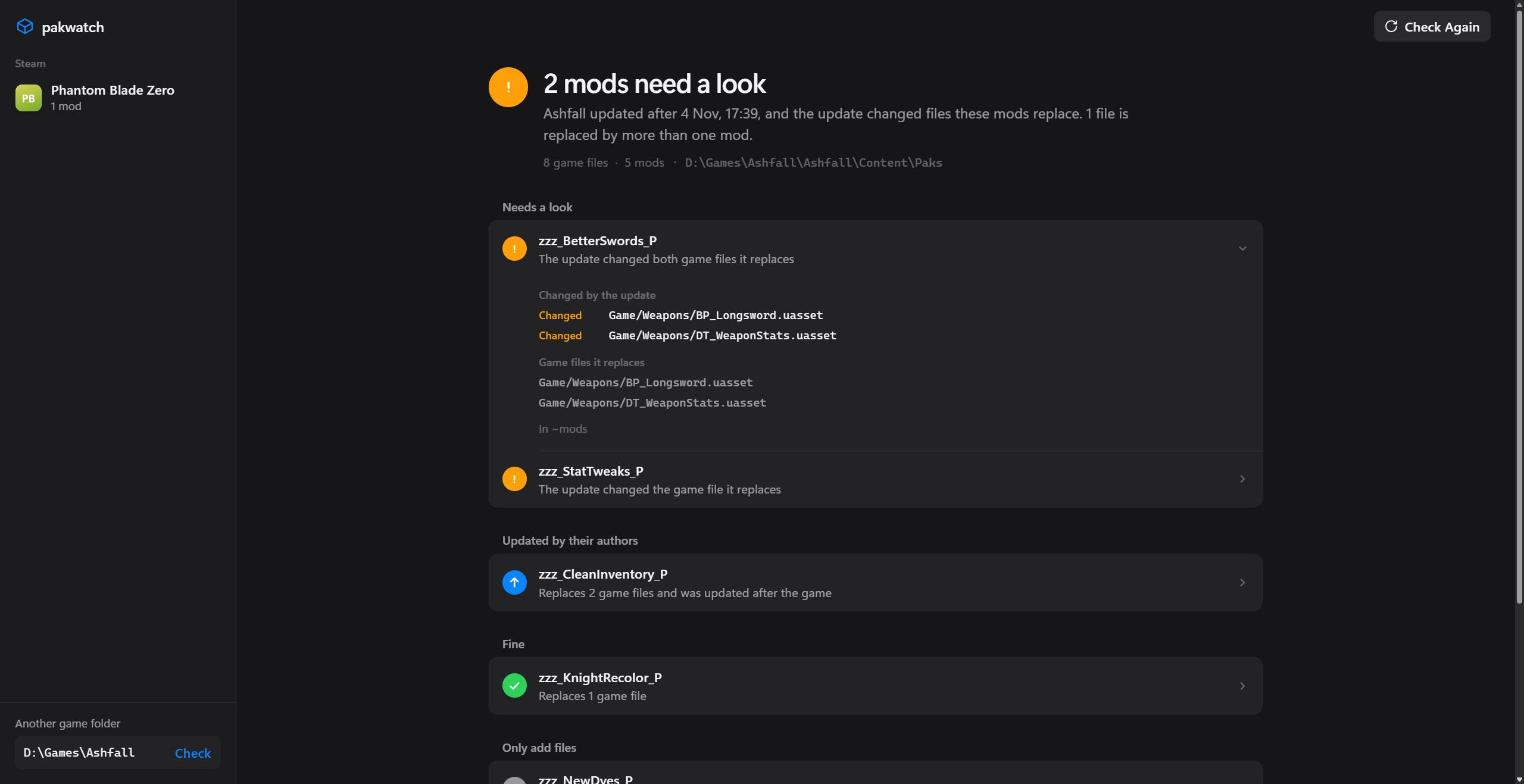
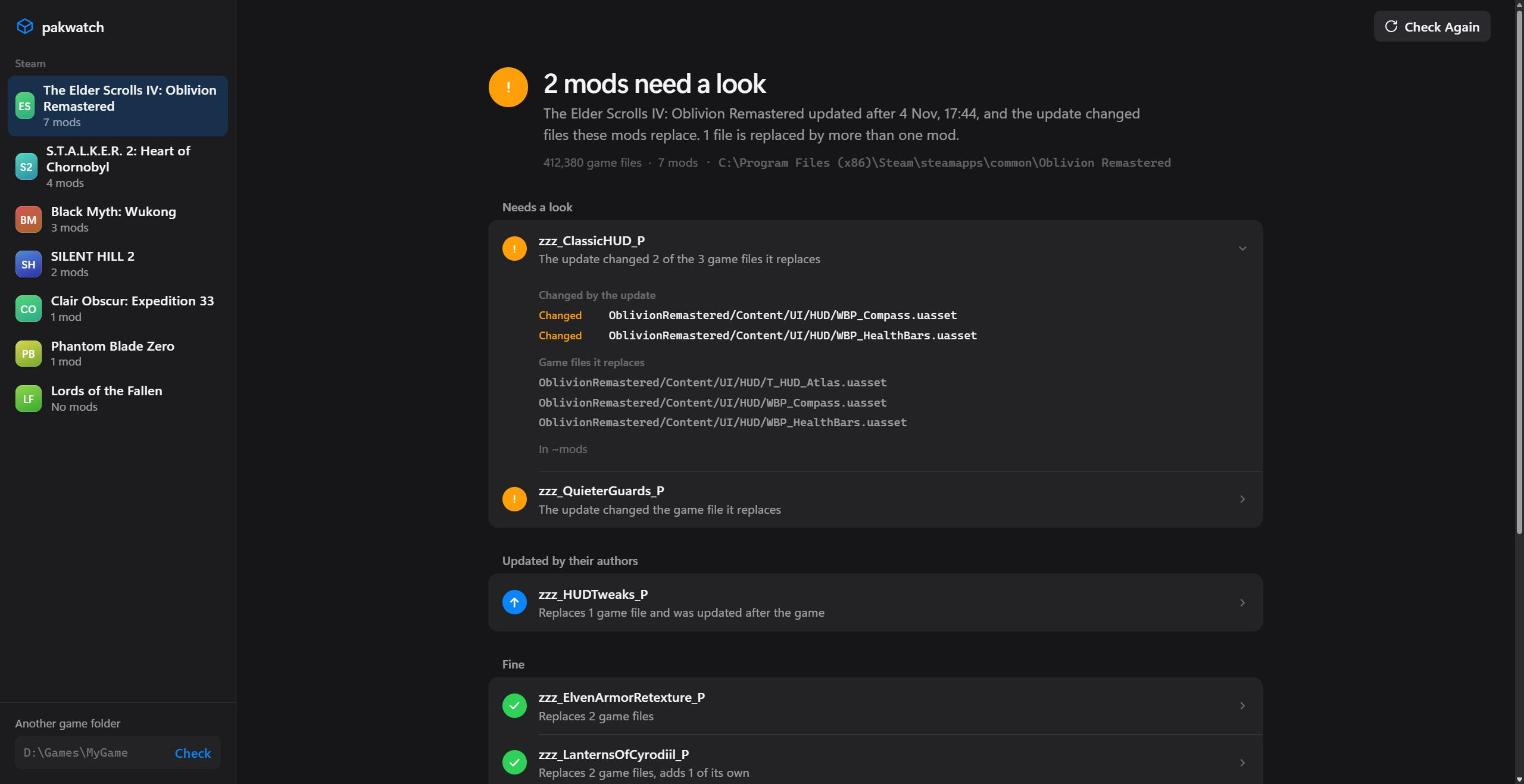
README screenshots with seven UE5 games (example data); game initials skip The/of and roman numerals

diff --git a/pakwatch/web/index.html b/pakwatch/web/index.html
@@ -220,7 +220,8 @@ function tileColor(name) {  // a stable hue per game, like an app icon
   for (const c of name) h = (h * 31 + c.charCodeAt(0)) % 360;
   return `linear-gradient(160deg, hsl(${h} 62% 58%), hsl(${(h + 25) % 360} 58% 42%))`;
 }
-const initials = (name) => name.split(/[\s:_-]+/).filter((w) => /^[A-Za-z0-9]/.test(w)).slice(0, 2).map((w) => w[0].toUpperCase()).join("") || "?";
+const initials = (name) => name.split(/[\s:_-]+/)  // "The Elder Scrolls IV: ..." -> ES, not TE
+  .filter((w) => /^[A-Za-z0-9]/.test(w) && !/^(the|of|a|an|[ivx]+)$/i.test(w)).slice(0, 2).map((w) => w[0].toUpperCase()).join("") || "?";
 
 async function api(path) {
   const r = await fetch(path, { headers: { "X-Pakwatch-Token": TOKEN } });

diff --git a/README.md b/README.md
@@ -18,8 +18,10 @@ Run `pakwatch` without a folder and it opens in your browser instead. It finds t
 
 <picture>
   <source media="(prefers-color-scheme: dark)" srcset="docs/window-dark.png">
-  <img src="docs/window-light.png" alt="pakwatch in the browser: a test game after an update, two mods that need a look because the update changed files they replace, and the other mods grouped by what the update did to them" width="100%">
+  <img src="docs/window-light.png" alt="pakwatch in the browser with example data: seven Unreal Engine 5 games from a Steam library, and Oblivion Remastered after an update, where two mods need a look because the update changed files they replace" width="100%">
 </picture>
+
+<sub>Example data: the games are real, the mods and the update are made up for the picture.</sub>
 
 ## How it works
 
